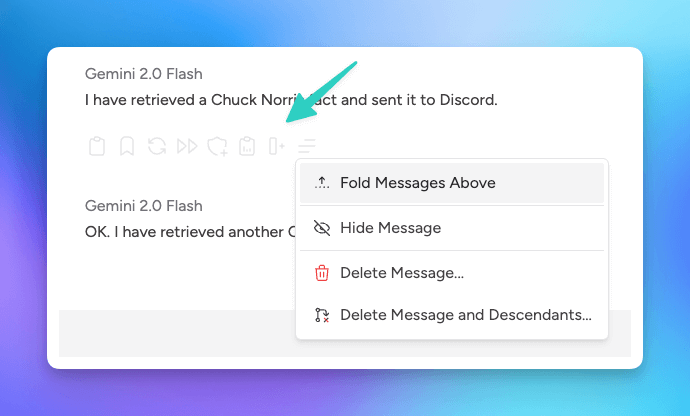
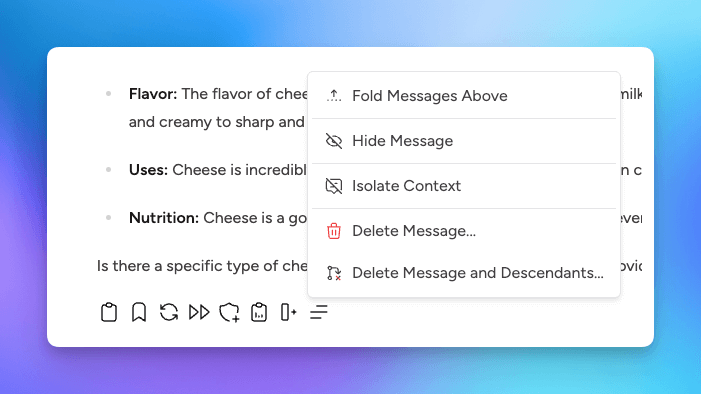
chore: add autoreponder and prompt library (#31)
* chore: add autoreponder and prompt library

* add reference to un isolate all convo messages

Pull request: chore: add autoreponder and prompt library

diff --git a/content/1.features/1.prompts-library.md b/content/1.features/1.prompts-library.md
@@ -1,0 +1,44 @@
+---
+title: Prompts Library
+description: Create your Prompt Library to save and use prompts throughout Msty
+navTruncate: false
+---
+
+Create and organize prompts for easy access and reuse across Msty.
+
+![Prompts Library](/images/prompts-library.png)
+
+
+## Import Default Prompts
+
+To quickly get started, you can import a collection of ready-to-use prompts:
+
+1. Select the **down arrow** next to the **New Prompt** button.
+2. Choose **Import Default Prompts**.
+
+This will load a curated set of prompts that you can edit and customize to fit your workflow.
+
+
+## Add a New Prompt
+
+To create your own prompt:
+
+1. Click **New Prompt**.
+2. Enter a **Title** and your **Prompt text**.
+
+Alternatively, click the **down arrow** next to **New Prompt** to:
+
+* Import prompts from your clipboard.
+* Upload a JSON file with one or more prompts.
+
+
+## Organize Your Prompts
+
+Keep your prompt library tidy by using folders:
+
+* Use the **down arrow** next to **New Prompt** or the **ellipsis (⋯)** icon beside existing folders to create:
+
+  * New root-level folders
+  * Subfolders (child folders)
+
+You can then move prompts into these folders for better organization and faster access.

diff --git a/content/1.features/5.conversations/0.main-chat.md b/content/1.features/5.conversations/0.main-chat.md
@@ -24,6 +24,35 @@ Have your model scan the web for real-time data. This feature is available when 
 
 Check out [Real-Time Data](/features/real-time-data) for more detail.
 
+### Personas
+
+Add a persona to a conversation by selecting the Persona icon and then selecting a Persona to include. 
+
+You can also type the **@** symbol to quick select a Persona. 
+
+There Persona tab that appears above message entry area provides additional options. 
+
+#### Send Persona prompt
+Selecting the up arrow will send the prompt assigned to the Persona to the conversation. This is handy if you want to quickly get a response that is directed by the Peronas prompt from the model. 
+
+#### Context Message Count
+This limits the messages sent with messages to the last number of messages entered. 
+
+By default, all prior messages in the conversation is sent. If you'd like to limit context to only the most recent message, then you can enter **1**, for example. 
+
+#### Auto Responder
+When **Auto Responder** is enabled, the Persona will react to a conversation between you and the model you are chatting with. 
+
+Think of it as a Persona that is providing commentary to a conversation that it is listening in on but not actively participating in. 
+
+This can come in handy in situations where you want a Persona to act as a fact-checker, for example, where the Auto Responder Persona fact-checks the responses from a model. 
+
+### Prompt Library
+Select the Prompts Library icon to search for prompts you have added to the library. You can then select a prompt to enter it into the chat window. 
+
+In the chat window, you can also type **/** to quick search for a prompt. 
+
+
 ### Toolsets and Live contexts
 
 Include [Toolsets](/features/toolsets) and [Live Contexts](/features/live-contexts) in your conversation to amp up the power of your conversation.

diff --git a/content/1.features/5.conversations/1.responses.md b/content/1.features/5.conversations/1.responses.md
@@ -32,8 +32,6 @@ The Context Shield removes the prior conversation context from continued convers
 
 Provides estimated input and output tokens used and latency metrics. If utilizing Tools, provides additional metrics for tool usage including which specific tools were utilized. 
 
-![response metrics](/images/response-metrics.png)
-
 ### Use as prompt in new split
 
 This allows you to take a message from the current conversation and use it as a prompt in a new split conversation. This is useful if you want to explore different directions based on a specific message.
@@ -46,7 +44,13 @@ Fold messages to hide them from view to declutter the conversation and focus on 
 
 Hide messages from the conversation view. Hidden messages will still be included in contexts. 
 
-Hidden messages can be unhidden by clicking the unhide parent/child message option under the adjacent message's response menu. To unhide all, select the conversation's ellipsis menu in top right corner and then select option to unhide all. 
+Hidden messages can be unhidden by clicking the unhide parent/child message option under the adjacent message's response menu. To unhide all, select the conversation's ellipsis menu in top right corner and then select option to **Show All Hidden Messages**. 
+
+### Isolate Context
+
+Excludes the response from being included in context sent to model during continued conversation. Select **Remove Context Isolation** to include context back in conversation. You can also remove all context isolation in a conversation from the ellipsis menu in the top right corner and then select option to **Clear All Context Isolations**. 
+
+
 
 ### Delete message
 

diff --git a/content/1.features/0.personas.md b/content/1.features/0.personas.md
@@ -8,7 +8,7 @@ Personas is a powerful tool that allows you to create custom AI agents tailored 
 
 ![Msty Personas](/images/personas.png)
 
-## Create New Personas
+## Create new Personas
 
 You can create new personas from the **Personas** section, accessible on the left sidebar menu. You don't need to start from scratch though.
 
@@ -27,3 +27,8 @@ Select the down arrow next to **New Persona** and then select **Import Default P
 7. **Few-Shot Prompts** let you provide example prompts to guide the Persona's responses, helping it understand the desired style or context of replies based on previous examples.
 
 ::
+
+
+## Using Personas in conversations
+
+[See how Personas are used in conversations](/features/conversations/main-chat#personas)